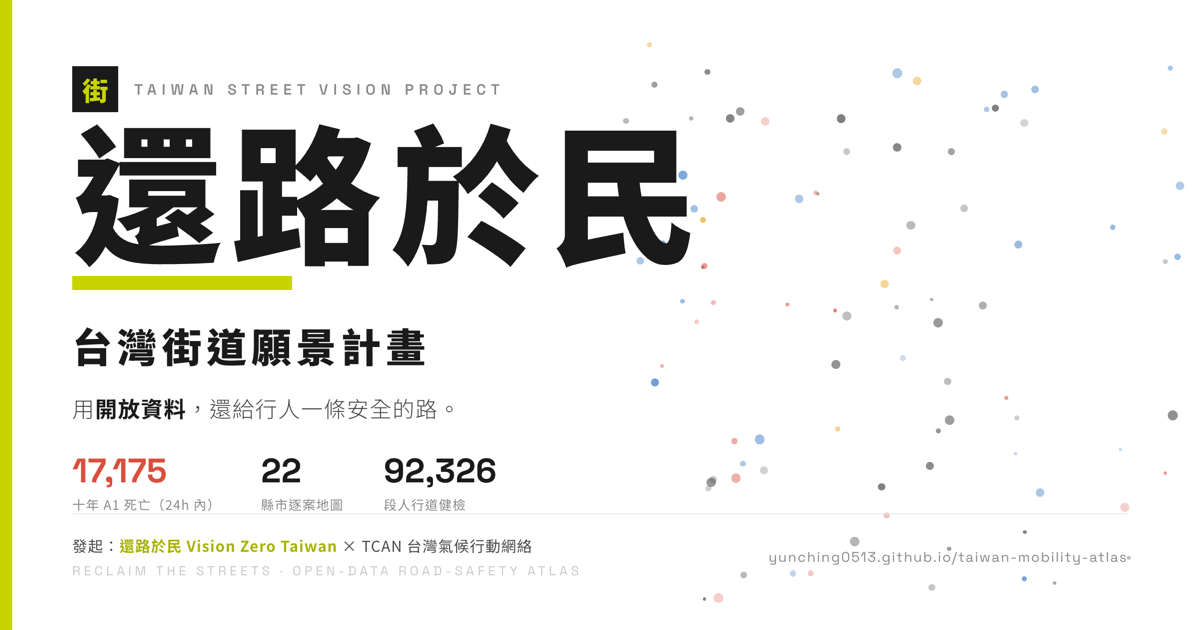
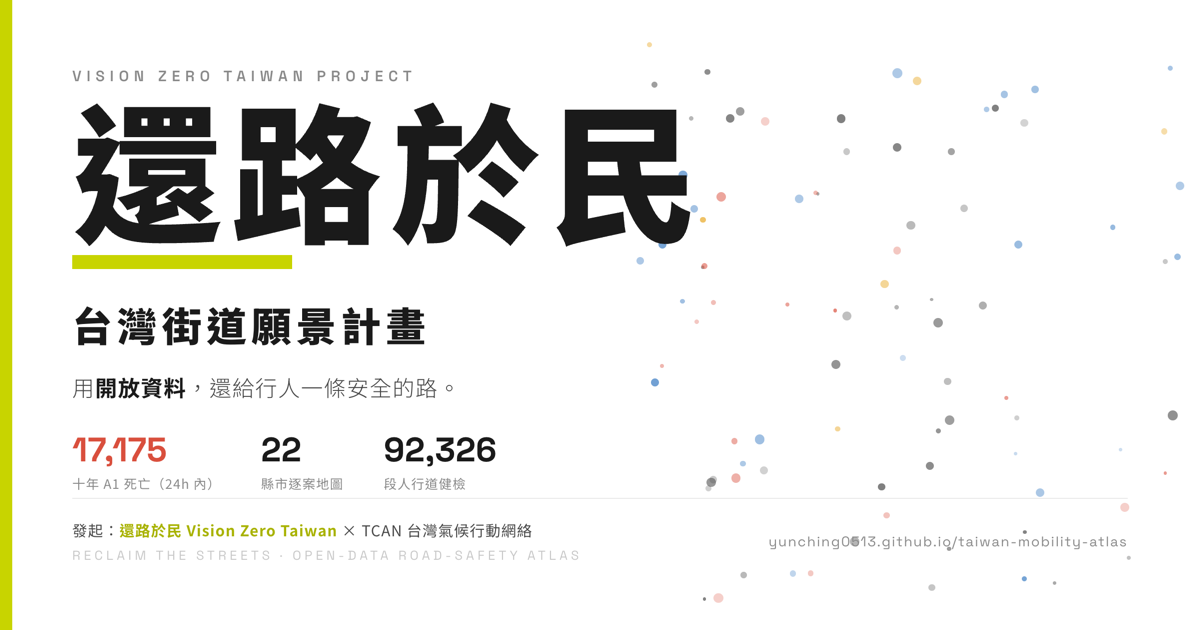
OG share card: drop 街 mark, rename kicker to Vision Zero Taiwan Project
Remove the top-left 街 badge and change the English kicker from "Taiwan
Street Vision Project" to "Vision Zero Taiwan Project". Re-rendered og.png.

Changed region(s): [[0.0617, 0.0905, 0.5858, 0.6635], [0.0617, 0.6937, 0.4933, 0.9048], [0.6475, 0.8444, 0.9558, 0.9048]]

diff --git a/assets/og.html b/assets/og.html
@@ -41,8 +41,7 @@
   <div class="edge"></div>
   <div class="wrap">
     <div class="top">
-      <div class="mark">街</div>
-      <div class="kick">Taiwan Street Vision Project</div>
+      <div class="kick">Vision Zero Taiwan Project</div>
     </div>
 
     <div class="mid">
